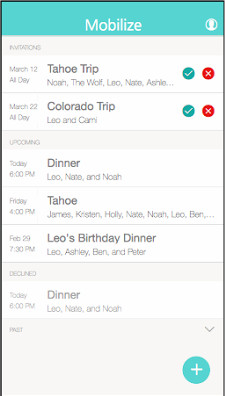
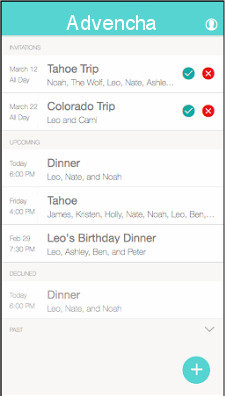
changing to advencha

Changed region(s): [[0.28, 0.0303, 0.6844, 0.0909]]

diff --git a/index.html b/index.html
@@ -31,7 +31,7 @@
     <header id="header" class="site-header">
       <div class="container">
           <!-- angle-double-up -->
-        <h1><a class="site-title"><i class="fa fa-group"></i> Mobilize</a></h1>
+        <h1><a class="site-title"><i class="fa fa-group"></i> Advencha</a></h1>
       </div><!-- /container -->
 
       <div class="container">
@@ -40,34 +40,36 @@
 
             <div class="header-description">
                 <!-- Change easy to somethi -->
-              <h2>Activities Made Easy</h2>
+              <h2>Adventure Together</h2>
             </div><!-- /header-description -->
 
             <div class="header-features">
               <div class="row">
                 <div class="col-sm-6 header-feature">
-                  <h3><i class="fa fa-caret-right"></i> &nbsp; Provides the tools you need</h3>
+                  <h3><i class="fa fa-caret-right"></i> &nbsp; Organize your groups with ease</h3>
                   <div class="row">
                     <div class="col-sm-6">
                         <!--   -->
                       <!-- <p>Mobilize is the application that makes it easy for you to plan group activities.<p> -->
-                      <p>Mobilize simplifies coordinating your activities and tracks:</p>
+                      <p>Keep plans separate and clearly manage:</p>
                       <!--  Is determine the right word? -->
                       <!-- <p>Mobilize helps determine:</p> -->
                       <!--  Are these the top five questions? This is the key to success. Word this better-->
                       <ul class="col-xs-push-1">
                           <!-- Participants, Place, Timing, Transportation, Payment -->
+                          <li>Locations</li>
                           <li>Participants</li>
-                          <li>Place</li>
-                          <li>Timing</li>
-                          <li>Transportation</li>
-                          <li>Payment</li>
+                          <li>Timelines</li>
+                          <!-- <li>Transportation</li>
+                          <li>Payment</li> -->
                           <!-- <li>Who's going?</li>   -->
                           <!-- <li>Where should you go?</li> -->
                           <!-- <li>What time should you get there?</li> -->
                           <!-- <li>How will you get there?</li> -->
                           <!-- <li>How will you get pay?</li> -->
                       </ul>
+
+                      <p>Answer the questions you need to help plan your next advencha.</p>
                     </div>
                      <!-- <div class="col-sm-6">
                          <p> Here we can add more text and stuff </p>
@@ -133,7 +135,7 @@
 
             <div class="footer-notes">
                 <p class="text-center ">Created by a group of friends, for groups of friends</p>
-                <p class="text-center "><a href="#">Mobilize:</a> Do Things Together.</p>
+                <p class="text-center "><a href="#">Advencha:</a> Do Things Together.</p>
             </div>
 
           </div>
